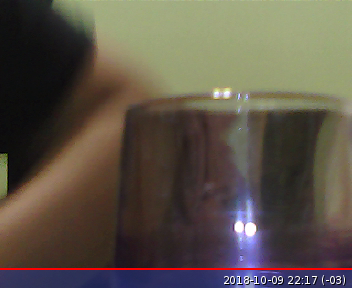
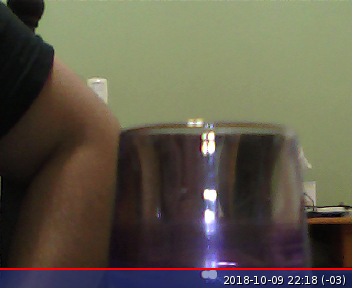
Tue Oct  9 22:18:27 2018

diff --git a/index.html b/index.html
@@ -51,7 +51,7 @@
 		<section class="info">
 			<div align="center">
 				<!-- FECHA Y HORA -->
-				<font size="30%">Tue Oct  9 22:17:42 2018</font>
+				<font size="30%">Tue Oct  9 22:18:27 2018</font>
 			</div>
 	</section>
 
